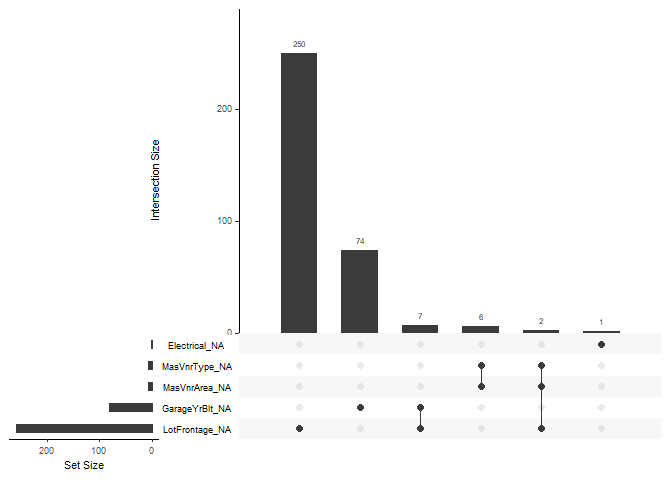
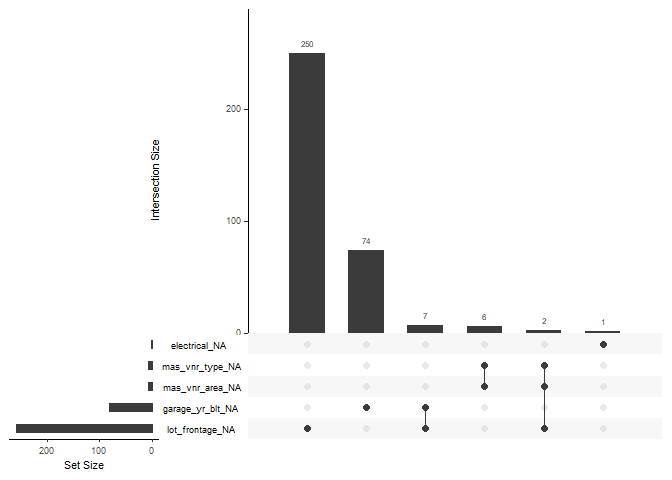
code

diff --git a/data_prep.md b/data_prep.md
@@ -1,4 +1,4 @@
-Untitled
+House Prices: Advanced Regression Techniques
 ================
 
 ## Missing data
@@ -10,24 +10,24 @@ One way would be to replace NA with year built for the house itselfe.
 ``` r
 # Missing data according to data_description.txt file
 
-training$PoolQC[is.na(training$PoolQC)] <- "no_pool"
-training$MiscFeature[is.na(training$MiscFeature)] <- "none"
-training$Alley[is.na(training$Alley)] <- "no_alley"
-training$Fence[is.na(training$Fence)] <- "no_fence"
-training$FireplaceQu[is.na(training$FireplaceQu)] <- "no_fireplace"
+training$pool_qc[is.na(training$pool_qc)] <- "no_pool"
+training$misc_feature[is.na(training$misc_feature)] <- "none"
+training$alley[is.na(training$alley)] <- "no_alley"
+training$fence[is.na(training$fence)] <- "no_fence"
+training$fireplace_qu[is.na(training$fireplace_qu)] <- "no_fireplace"
 
 #  Basement
-training$BsmtFinType2[is.na(training$BsmtFinType2)] <- "no_basement"
-training$BsmtFinType1[is.na(training$BsmtFinType1)] <- "no_basement"
-training$BsmtExposure[is.na(training$BsmtExposure)] <- "no_basement"
-training$BsmtQual[is.na(training$BsmtQual)] <- "no_basement"
-training$BsmtCond[is.na(training$BsmtCond)] <- "no_basement"
+training$bsmt_fin_type2[is.na(training$bsmt_fin_type2)] <- "no_basement"
+training$bsmt_fin_type1[is.na(training$bsmt_fin_type1)] <- "no_basement"
+training$bsmt_exposure[is.na(training$bsmt_exposure)] <- "no_basement"
+training$bsmt_qual[is.na(training$bsmt_qual)] <- "no_basement"
+training$bsmt_cond[is.na(training$bsmt_cond)] <- "no_basement"
 
 # Garage
-training$GarageType[is.na(training$GarageType)] <- "no_garage"
-training$GarageFinish[is.na(training$GarageFinish)] <- "no_garage"
-training$GarageQual[is.na(training$GarageQual)] <- "no_garage"
-training$GarageCond[is.na(training$GarageCond)] <- "no_garage"
+training$garage_type[is.na(training$garage_type)] <- "no_garage"
+training$garage_finish[is.na(training$garage_finish)] <- "no_garage"
+training$garage_qual[is.na(training$garage_qual)] <- "no_garage"
+training$garage_cond[is.na(training$garage_cond)] <- "no_garage"
 
 
 df_missing <- map_df(training, function(x) mean(is.na(x))) %>%
@@ -82,8 +82,8 @@ No clear pattern.
 ``` r
 df_numeric <- training %>% 
         select_if(is.numeric) %>% 
-        mutate(LotFrontage_cat = ifelse(is.na(LotFrontage), "missing", "no_missing")) %>% 
-        select(-Id,- LotFrontage) %>% 
+        mutate(LotFrontage_cat = ifelse(is.na(lot_frontage), "missing", "no_missing")) %>% 
+        select(-id,- lot_frontage) %>% 
         select(LotFrontage_cat, everything()) %>% 
         gather("key", "value", 2:37)
 
@@ -92,10 +92,9 @@ ggplot(df_numeric,
            y = value,
            col = LotFrontage_cat)) + 
         geom_violin() +
-        facet_wrap(~key, ncol = 6, scales = "free_y")
+        facet_wrap(~key, ncol = 6, scales = "free_y") + 
+        theme(legend.position = "bottom")
 ```
-
-    ## Warning: Removed 89 rows containing non-finite values (stat_ydensity).
 
 ![](data_prep_files/figure-gfm/unnamed-chunk-3-1.png)<!-- -->
 
@@ -106,14 +105,14 @@ df_categorical <- training %>%
         select_if(is.character)
 
 df_lot <- training %>% 
-        select(Id, LotFrontage)
+        select(id, lot_frontage)
 
-df_categorical <- bind_cols(df_lot, df_categorical) %>% select(-Id)
+df_categorical_lot <- bind_cols(df_lot, df_categorical) %>% select(-id)
 
-df_categorical <- df_categorical %>% 
+df_categorical <- df_categorical_lot %>% 
         gather("key", "value", 2:44) %>% 
         group_by(key, value) %>% 
-        summarise(missing = mean(is.na(LotFrontage)),
+        summarise(missing = mean(is.na(lot_frontage)),
                   fjoldi = n()) %>% 
         arrange(desc(missing))
 
@@ -122,28 +121,18 @@ head(df_categorical, 10)
 
     ## # A tibble: 10 x 4
     ## # Groups:   key [8]
-    ##    key         value   missing fjoldi
-    ##    <chr>       <chr>     <dbl>  <int>
-    ##  1 Condition2  RRAe      1          1
-    ##  2 Condition2  RRAn      1          1
-    ##  3 Functional  Sev       1          1
-    ##  4 Heating     Floor     1          1
-    ##  5 MiscFeature Gar2      1          2
-    ##  6 RoofMatl    Metal     1          1
-    ##  7 RoofStyle   Shed      1          2
-    ##  8 Utilities   NoSeWa    1          1
-    ##  9 LandSlope   Sev       0.615     13
-    ## 10 RoofMatl    WdShake   0.6        5
-
-``` r
-# ggplot(df_categorical,
-#        aes(x = value,
-#            y = missing,
-#            fill = value)) +
-#         geom_bar(stat = "identity") +
-#         facet_wrap(~key) + 
-#         theme(legend.position = "none")
-```
+    ##    key          value   missing fjoldi
+    ##    <chr>        <chr>     <dbl>  <int>
+    ##  1 condition2   RRAe      1          1
+    ##  2 condition2   RRAn      1          1
+    ##  3 functional   Sev       1          1
+    ##  4 heating      Floor     1          1
+    ##  5 misc_feature Gar2      1          2
+    ##  6 roof_matl    Metal     1          1
+    ##  7 roof_style   Shed      1          2
+    ##  8 utilities    NoSeWa    1          1
+    ##  9 land_slope   Sev       0.615     13
+    ## 10 roof_matl    WdShake   0.6        5
 
 ### GarageYrBlt
 
@@ -155,9 +144,8 @@ forest.
 ``` r
 # I have to change all character variables to factor. Got an error: Error in gower_work....
 
-train_no_garageyrblt <- training[!is.na(training$GarageYrBlt), ] %>% select(-Id) %>% 
-        mutate_if(is.character, as.factor) %>% 
-        janitor::clean_names()
+train_no_garageyrblt <- training[!is.na(training$garage_yr_blt), ] %>% select(-id) %>% 
+        mutate_if(is.character, as.factor)
 
 ames_rf_importance <- recipe(sale_price ~ ., data = train_no_garageyrblt) %>% 
         step_knnimpute(all_predictors(), neighbors = 5) %>% 
@@ -198,7 +186,7 @@ rank_garagyrb <- which(df_rf_importance$variable == "garage_yr_blt")
 yrblt_garageyrb <- mean(train_no_garageyrblt$year_built == train_no_garageyrblt$garage_yr_blt)
 ```
 
-The year when the garage is built ranks number 20 of 79 variables in the
+The year when the garage is built ranks number 21 of 79 variables in the
 dataset. I could replace the garage\_yr\_blt with year\_built. 0.7897027
 of garages were built the same year as the house. So I’m not 100% sure
 if I should impute garage\_yr\_built with year\_built.
@@ -211,6 +199,141 @@ ggplot(train_no_garageyrblt,
 ```
 
 ![](data_prep_files/figure-gfm/unnamed-chunk-7-1.png)<!-- -->
+
+### Imputing vs. recoding
+
+Let’s now compare the cross validated accuracy between models when
+imputing the garage\_yr\_blt with the year\_built variable and when the
+variable is recoded as 1 for garage, and 0 for no garage.
+
+``` r
+train_gar_imp <- training %>% 
+        mutate(garage_yr_blt = case_when(is.na(garage_yr_blt) ~ year_built,
+                                         TRUE ~ garage_yr_blt)) %>% 
+        mutate_if(is.character, as.factor)
+
+# Impute
+train_gar_imp_train <- train_gar_imp[1:1000, ]
+train_gar_imp_test <- train_gar_imp[1001:1460, ]
+
+ames_rf_impute <- recipe(sale_price ~ ., data = train_gar_imp_train) %>% 
+        step_knnimpute(all_predictors(), neighbors = 5) %>% 
+        prep(train_gar_imp)
+
+ames_rf_imp_train <- bake(ames_rf_impute, new_data = train_gar_imp_train)
+ames_rf_imp_test <- bake(ames_rf_impute, new_data = train_gar_imp_test)
+
+
+
+# Recode
+train_gar_recode <- training %>% 
+        mutate(garage_yr_blt_recode = case_when(is.na(garage_yr_blt) ~ 0,
+                                                TRUE ~ 1)) %>%
+        select(-garage_yr_blt) %>% 
+        mutate_if(is.character, as.factor)
+
+train_gar_recode_train <- train_gar_recode[1:1000, ]
+train_gar_recode_test <- train_gar_recode[1001:1460, ]
+
+
+ames_rf_recode <- recipe(sale_price ~ ., data = train_gar_recode_train) %>% 
+        step_knnimpute(all_predictors(), neighbors = 5) %>% 
+        prep(train_gar_recode)
+
+ames_rf_recode_train <- bake(ames_rf_recode, new_data = train_gar_recode_train)
+ames_rf_recode_test <- bake(ames_rf_recode, new_data = train_gar_recode_test)
+
+
+
+# Modelling
+n_features_imp <- length(setdiff(names(train_gar_imp_train), "sale_price"))
+n_features_rec <- length(setdiff(names(train_gar_recode_train), "sale_price"))
+
+
+
+rf_model_imp <- ranger::ranger(sale_price ~ .,
+                               data = ames_rf_imp_train,
+                               mtry = floor(n_features_imp / 3),
+                               respect.unordered.factors = "order",
+                               importance = "impurity")
+
+rf_model_rec <- ranger::ranger(sale_price ~ .,
+                               data = ames_rf_recode_train,
+                               mtry = floor(n_features_rec / 3),
+                               respect.unordered.factors = "order",
+                               importance = "impurity")
+
+
+pred_imp <- predict(rf_model_imp, data = ames_rf_imp_test)$predictions
+pred_rec <- predict(rf_model_rec, data = ames_rf_recode_test)$predictions
+
+
+rmse_imp <- RMSE(pred_imp, train_gar_imp_test$sale_price)
+rmse_rec <- RMSE(pred_rec, train_gar_recode_test$sale_price)
+```
+
+There is almost no differene in RMSE when recoding the variable vs. when
+the variable is imputed with year\_built. Even though there is a tiny
+difference, I’m going to make two data sets. The tiny difference only
+applies to random forest. Maybe neural network or elastic net will be
+able to use imputed data better than recoded.
+
+### New data
+
+``` r
+# Imputed
+training_imputed <- training %>% 
+        mutate(garage_yr_blt = case_when(is.na(garage_yr_blt) ~ year_built,
+                                         TRUE ~ garage_yr_blt)) %>% 
+        mutate_if(is.character, as.factor)
+
+# Recoded
+training_recode <- training %>% 
+        mutate(garage_yr_blt_recode = case_when(is.na(garage_yr_blt) ~ 0,
+                                                TRUE ~ 1)) %>%
+        select(-garage_yr_blt) %>% 
+        mutate_if(is.character, as.factor)
+```
+
+### Analysis of categorical variables
+
+``` r
+df_categorical <- training %>% 
+        select_if(is.character)
+
+# number of categories in each variable
+
+df_categorical %>% 
+        gather() %>% 
+        group_by(key) %>% 
+        summarise(number = n_distinct(value)) %>% 
+        ggplot(aes(x = fct_reorder(key, number),
+                   y =  number)) +
+        geom_bar(stat = "identity") +
+        coord_flip()
+```
+
+![](data_prep_files/figure-gfm/unnamed-chunk-10-1.png)<!-- -->
+
+``` r
+# neighborhood
+df_categorical %>% 
+        select(neighborhood) %>% 
+        group_by(neighborhood) %>% 
+        summarise(number = n()) %>% 
+        ggplot(aes(x = fct_reorder(neighborhood, number),
+                   y = number)) + 
+        geom_bar(stat = "identity") +
+        coord_flip()
+```
+
+![](data_prep_files/figure-gfm/unnamed-chunk-10-2.png)<!-- -->
+
+### Visualisation of numeric variables
+
+``` r
+df_numeric <- training %>% select_if(is.numeric)
+```
 
 ### Recipe
 
